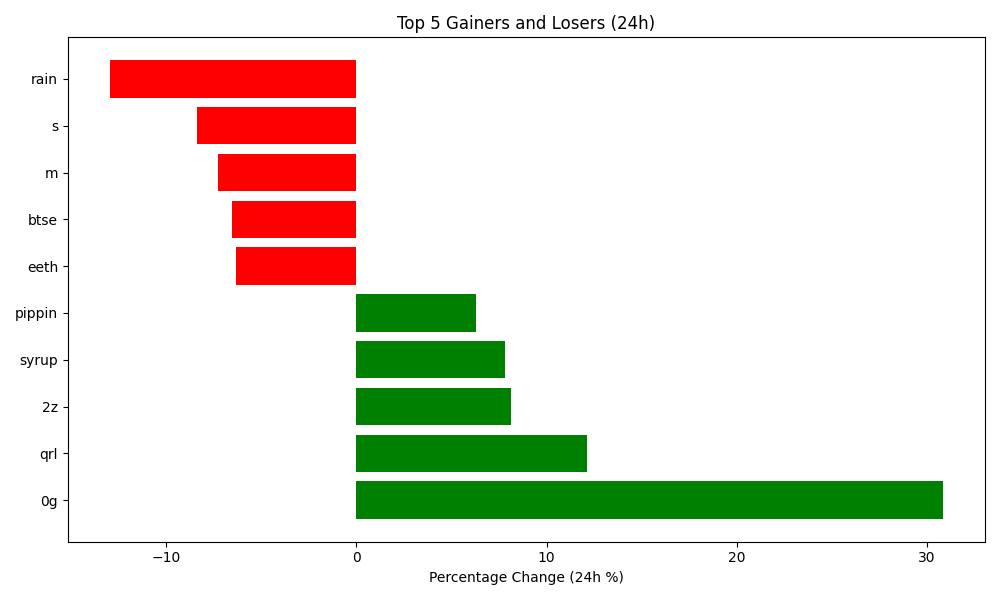
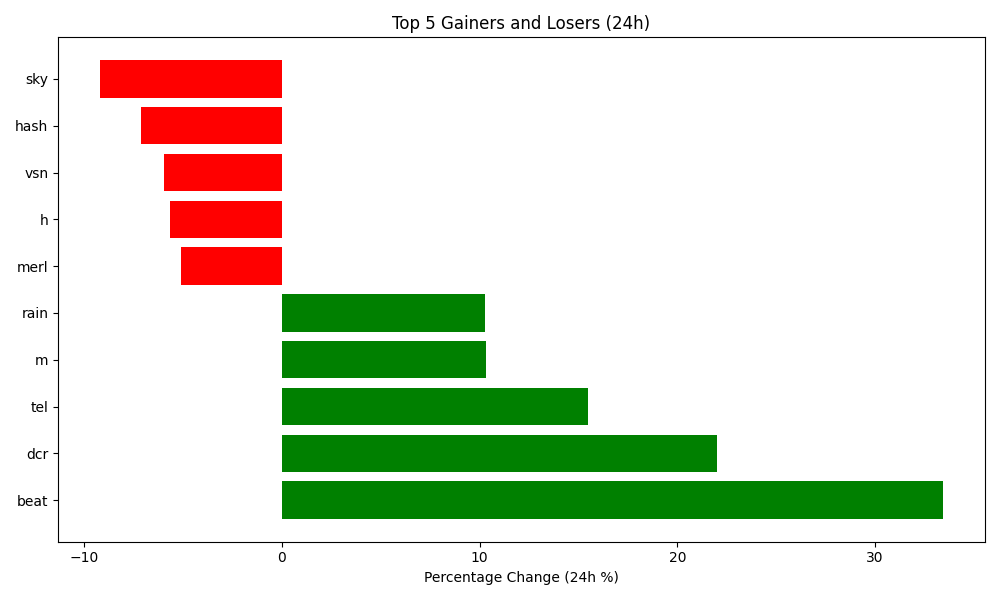
Auto-update crypto data and plot

diff --git a/README.md b/README.md
@@ -4,7 +4,7 @@ Author: Hitesh Agrawal
 This repository automatically tracks the top 5 gaining, top 5 losing, and top 5 highest volume cryptocurrencies in the last 24 hours using the CoinGecko API, Python, Matplotlib, and GitHub Actions updates the below content everyday at midnight.
 
 <!-- START_DYNAMIC_CONTENT -->
-Last updated: 2025-12-26 01:08 UTC
+Last updated: 2025-12-27 01:06 UTC
 
 ![Crypto Movers Plot](crypto_movers_plot.png)
 
@@ -12,33 +12,33 @@ Last updated: 2025-12-26 01:08 UTC
 
 | Rank | Coin | Price Change (24h %) | Volume (USD) | Current Price (USD) |
 | :--: | :--: | :------------------: | :----------: | :-----------------: |
-| 1 | 0g | 30.86% | $298,318,080 | $1.1400 |
-| 2 | qrl | 12.14% | $116,107 | $3.1500 |
-| 3 | 2z | 8.12% | $43,251,160 | $0.1211 |
-| 4 | syrup | 7.80% | $25,003,618 | $0.3328 |
-| 5 | pippin | 6.28% | $41,664,362 | $0.5109 |
+| 1 | beat | 33.43% | $69,683,553 | $2.0200 |
+| 2 | dcr | 21.98% | $25,023,825 | $18.8400 |
+| 3 | tel | 15.49% | $8,024,560 | $0.0044 |
+| 4 | m | 10.32% | $15,997,114 | $1.4500 |
+| 5 | rain | 10.29% | $51,752,450 | $0.0077 |
 
 
 **👇 Top 5 Losers (24h)**
 
 | Rank | Coin | Price Change (24h %) | Volume (USD) | Current Price (USD) |
 | :--: | :--: | :------------------: | :----------: | :-----------------: |
-| 1 | rain | -12.97% | $38,650,361 | $0.0070 |
-| 2 | s | -8.38% | $33,416,384 | $0.0713 |
-| 3 | m | -7.27% | $10,640,041 | $1.3200 |
-| 4 | btse | -6.54% | $9,370,825 | $1.5000 |
-| 5 | eeth | -6.32% | $24,759 | $2,903.0600 |
+| 1 | sky | -9.19% | $21,381,521 | $0.0612 |
+| 2 | hash | -7.13% | $45,475 | $0.0305 |
+| 3 | vsn | -5.95% | $15,702,228 | $0.0796 |
+| 4 | h | -5.68% | $52,499,446 | $0.1533 |
+| 5 | merl | -5.08% | $18,401,400 | $0.4278 |
 
 
 **💎 Top 5 by Trade Volume (24h)**
 
 | Rank | Coin | Price Change (24h %) | Volume (USD) | Current Price (USD) |
 | :--: | :--: | :------------------: | :----------: | :-----------------: |
-| 1 | usdt | 0.00% | $42,740,307,012 | $0.9995 |
-| 2 | btc | -0.40% | $23,694,078,130 | $87,219.0000 |
-| 3 | eth | -1.15% | $12,515,194,497 | $2,907.1900 |
-| 4 | usdc | -0.02% | $6,650,786,847 | $0.9998 |
-| 5 | sol | -1.57% | $2,623,315,095 | $120.2300 |
+| 1 | usdt | -0.01% | $70,933,472,450 | $0.9994 |
+| 2 | btc | 0.11% | $45,627,573,787 | $87,299.0000 |
+| 3 | eth | 0.65% | $18,089,918,673 | $2,924.3800 |
+| 4 | usdc | -0.00% | $9,744,917,948 | $0.9997 |
+| 5 | sol | 1.47% | $4,028,867,793 | $121.9600 |
 
 
 <!-- END_DYNAMIC_CONTENT -->
